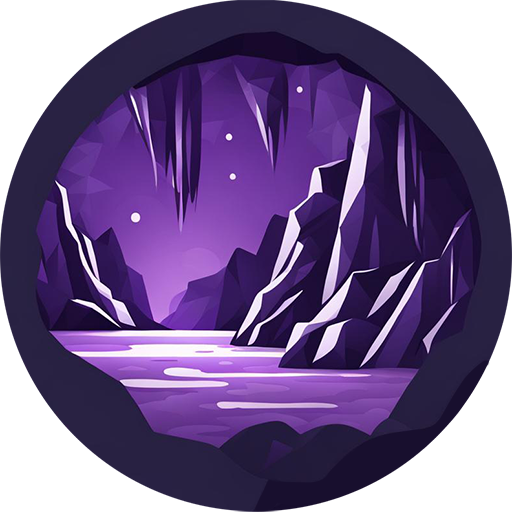
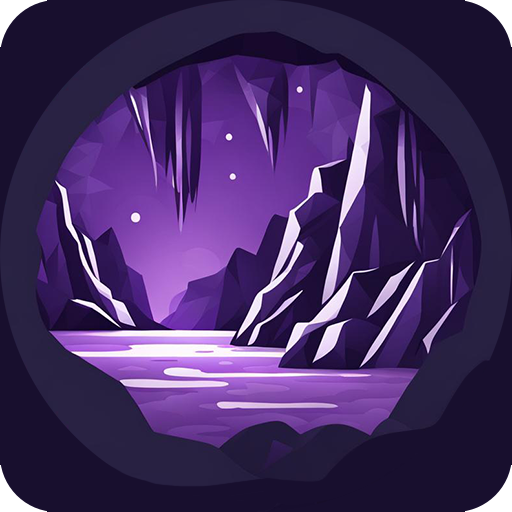
Fix prettier, add basic stepper component, improve sidebar animation.

diff --git a/src/app/feature/generator/component/generator-form/generator-form.component.html b/src/app/feature/generator/component/generator-form/generator-form.component.html
@@ -1,20 +1,10 @@
 <form [formGroup]="form">
   <cn-checkbox class="cn-cell-3" formControlName="crystalNestMod" label="Are you Crystal Nest's member?"></cn-checkbox>
-</form>
-<mat-stepper #stepper orientation="horizontal" [linear]="false">
-  <mat-step [stepControl]="form">
-    <ng-template matStepLabel>Choose Minecraft version</ng-template>
-    <form [formGroup]="form">
+  <cn-stepper [steps]="steps">
+    <ng-template step>
       <cn-input formControlName="minecraftVersion" label="Minecraft version" />
-      <button mat-button matStepperNext>
-        next
-        <mat-icon>keyboard_arrow_right</mat-icon>
-      </button>
-    </form>
-  </mat-step>
-  <mat-step [stepControl]="form">
-    <ng-template matStepLabel>Enter project name</ng-template>
-    <form [formGroup]="form">
+    </ng-template>
+    <ng-template step>
       <cn-input class="cn-cell-3" formControlName="modTitle" label="Mod title" />
       <cdk-accordion class="example-accordion">
         <cdk-accordion-item #accordionItem="cdkAccordionItem" role="button" tabindex="0">
@@ -29,45 +19,15 @@
           </div>
         </cdk-accordion-item>
       </cdk-accordion>
-      <button mat-button matStepperPrevious>
-        back
-        <mat-icon>keyboard_arrow_left</mat-icon>
-      </button>
-      <button mat-button matStepperNext>
-        next
-        <mat-icon>keyboard_arrow_right</mat-icon>
-      </button>
-    </form>
-  </mat-step>
-  <mat-step [stepControl]="form">
-    <ng-template matStepLabel>Enter project description</ng-template>
-    <form [formGroup]="form">
+    </ng-template>
+    <ng-template step>
       <textarea class="cn-cell-3" formControlName="description"></textarea>
-      <button mat-button matStepperPrevious>
-        back
-        <mat-icon>keyboard_arrow_left</mat-icon>
-      </button>
-      @if (!form.controls.crystalNestMod.value) {
-      <button mat-button matStepperNext>
-        next
-        <mat-icon>keyboard_arrow_right</mat-icon>
-      </button>
-      }
-    </form>
-  </mat-step>
-  @if (!form.controls.crystalNestMod.value) {
-  <mat-step [stepControl]="form">
-    <ng-template matStepLabel>Authors</ng-template>
-    <form [formGroup]="form">
+    </ng-template>
+    <ng-template step>
       <cn-input class="cn-cell-3" formControlName="group" label="Java group" />
       <cn-input class="cn-cell-3" formControlName="authors" label="Mod authors" />
       <cn-input class="cn-cell-3" formControlName="githubUser" label="GitHub owner" />
-      <button mat-button matStepperPrevious>
-        back
-        <mat-icon>keyboard_arrow_left</mat-icon>
-      </button>
-    </form>
-  </mat-step>
-  }
-</mat-stepper>
+    </ng-template>
+  </cn-stepper>
+</form>
 <button [disabled]="!validity" (click)="emitSubmit()">Download</button>

diff --git a/src/app/feature/generator/component/generator-form/generator-form.component.ts b/src/app/feature/generator/component/generator-form/generator-form.component.ts
@@ -11,15 +11,18 @@ import {TEMPLATE_AUTHORS, TEMPLATE_GITHUB_USER, TEMPLATE_GROUP} from '../../mode
 
 import {FormComponent} from '~cn/core/abstract/form-component';
 import {FormType} from '~cn/core/model/form-type.type';
-import {CnCheckboxComponent} from '~cn/shared/component/form/checkbox/checkbox.component';
-import {CnInputComponent} from '~cn/shared/component/form/input/input.component';
+import {CheckboxComponent} from '~cn/shared/component/form/checkbox/checkbox.component';
+import {InputComponent} from '~cn/shared/component/form/input/input.component';
+import {StepDirective} from '~cn/shared/component/form/stepper/directive/step.directive';
+import {Step} from '~cn/shared/component/form/stepper/model/step.interface';
+import {StepperComponent} from '~cn/shared/component/form/stepper/stepper.component';
 
 /**
  * Generator form.
  *
  * @export
  * @class CnGeneratorFormComponent
- * @typedef {CnGeneratorFormComponent}
+ * @typedef {GeneratorFormComponent}
  * @extends {FormComponent<SkeletonForm>}
  * @implements {OnInit}
  */
@@ -27,18 +30,37 @@ import {CnInputComponent} from '~cn/shared/component/form/input/input.component'
   selector: 'cn-generator-form',
   standalone: true,
   imports: [
-    CnCheckboxComponent,
+    StepDirective,
+    CheckboxComponent,
     MatIconModule,
     CdkAccordionModule,
     MatStepperModule,
     ReactiveFormsModule,
-    CnInputComponent,
-    CnCheckboxComponent
+    InputComponent,
+    CheckboxComponent,
+    StepperComponent
   ],
   templateUrl: './generator-form.component.html',
   styleUrl: './generator-form.component.scss'
 })
-export class CnGeneratorFormComponent extends FormComponent<SkeletonForm> implements OnInit {
+export class GeneratorFormComponent extends FormComponent<SkeletonForm> implements OnInit {
+  public steps: Step[] = [
+    {
+      label: 'Minecraft and loaders'
+    },
+    {
+      label: 'Project details'
+    },
+    {
+      label: 'Project description',
+      hasNext: () => !this.form.controls.crystalNestMod.value
+    },
+    {
+      label: 'Ownership',
+      isVisible: () => !this.form.controls.crystalNestMod.value
+    }
+  ];
+
   /**
    * @inheritdoc
    */

diff --git a/src/app/feature/frame/component/sidebar/sidebar.component.scss b/src/app/feature/frame/component/sidebar/sidebar.component.scss
@@ -16,6 +16,7 @@
       padding: calc($nav-icon-size / 2);
 
       > mat-icon {
+        min-width: $nav-icon-size;
         width: $nav-icon-size;
         height: $nav-icon-size;
         font-size: $nav-icon-size;
@@ -40,25 +41,35 @@
   .cn-container {
     height: 100%;
 
-    > mat-sidenav mat-list-item {
-      height: calc($nav-icon-size * 2);
+    > mat-sidenav {
+      width: calc($nav-icon-size * 2);
+      transition: width 0.2s;
 
-      .cn-nav-icon {
-        display: flex;
-        align-items: center;
-        justify-content: start;
-        padding: calc($nav-icon-size / 2);
-        gap: $nav-icon-size;
+      &.expanded {
+        // $nav-icon-size * 2 (icon space) + $nav-icon-size / 2 * 2 (writing padding) + 275px (writing size)
+        width: calc($nav-icon-size * 3 + 275px);
+      }
 
-        > mat-icon {
-          min-width: $nav-icon-size;
-          width: $nav-icon-size;
-          height: $nav-icon-size;
-          font-size: $nav-icon-size;
-        }
+      mat-list-item {
+        height: calc($nav-icon-size * 2);
 
-        > span {
-          font-size: calc($nav-icon-size / 2);
+        .cn-nav-icon {
+          display: flex;
+          align-items: center;
+          justify-content: start;
+          padding: calc($nav-icon-size / 2);
+          gap: $nav-icon-size;
+
+          > mat-icon {
+            min-width: $nav-icon-size;
+            width: $nav-icon-size;
+            height: $nav-icon-size;
+            font-size: $nav-icon-size;
+          }
+
+          > span {
+            font-size: calc($nav-icon-size / 2);
+          }
         }
       }
     }

diff --git a/src/app/feature/frame/component/sidebar/sidebar.component.ts b/src/app/feature/frame/component/sidebar/sidebar.component.ts
@@ -1,5 +1,5 @@
 // eslint-disable-next-line no-redeclare
-import {animate, state, style, transition, trigger, AnimationEvent} from '@angular/animations';
+import {AnimationEvent} from '@angular/animations';
 import {Component} from '@angular/core';
 import {MatIconModule} from '@angular/material/icon';
 import {MatListModule} from '@angular/material/list';
@@ -23,33 +23,16 @@ import {RouterModule} from '@angular/router';
     MatIconModule
   ],
   templateUrl: './sidebar.component.html',
-  styleUrl: './sidebar.component.scss',
-  animations: [
-    trigger('toggle', [
-      state('collapsed', style({width: '64px'})),
-      state('expanded', style({width: '371px'})),
-      transition('expanded => collapsed', animate('0.2s')),
-      transition('collapsed => expanded', animate('0.2s'))
-    ])
-  ]
+  styleUrl: './sidebar.component.scss'
 })
 export class SidebarComponent {
   public expanded = false;
 
-  public showWritings = false;
-
   public toggleSidebar() {
     this.expanded = !this.expanded;
-    if (this.expanded) {
-      this.showWritings = true;
-    }
   }
 
   public close() {
     this.expanded = false;
-  }
-
-  public onToggleDone(event: AnimationEvent) {
-    this.showWritings = event.toState !== 'collapsed';
   }
 }

diff --git a/src/app/feature/frame/component/sidebar/sidebar.component.html b/src/app/feature/frame/component/sidebar/sidebar.component.html
@@ -1,22 +1,18 @@
 <mat-sidenav-container autosize class="cn-container" [hasBackdrop]="expanded" (backdropClick)="close()">
-  <mat-sidenav disableClose role="navigation" [@toggle]="expanded ? 'expanded' : 'collapsed'" [opened]="true" (@toggle.done)="onToggleDone($event)" (keydown.escape)="close()">
+  <mat-sidenav disableClose role="navigation" [class.expanded]="expanded" [opened]="true" (keydown.escape)="close()">
     <div class="sidebar-toggle">
       <div class="sidebar-toggle-button">
         <mat-icon (click)="toggleSidebar()">menu</mat-icon>
       </div>
-      @if (showWritings) {
-      <div class="sidebar-toggle-title" [routerLink]="['']">
+      <div class="sidebar-toggle-title" [routerLink]="['']" [tabIndex]="-1">
         <span>Crystal Nest</span>
       </div>
-      }
     </div>
     <mat-nav-list>
       <mat-list-item [routerLink]="['/generator']">
         <div class="cn-nav-icon">
           <mat-icon mat-list-icon>snippet_folder</mat-icon>
-          @if (showWritings) {
           <span mat-line>Skeleton Generator</span>
-          }
         </div>
       </mat-list-item>
     </mat-nav-list>

diff --git a/src/app/feature/generator/generator.component.ts b/src/app/feature/generator/generator.component.ts
@@ -3,7 +3,7 @@ import {Component} from '@angular/core';
 import {RouterModule} from '@angular/router';
 import JSZip from '@progress/jszip-esm';
 
-import {CnGeneratorFormComponent} from './component/generator-form/generator-form.component';
+import {GeneratorFormComponent} from './component/generator-form/generator-form.component';
 import {SkeletonForm} from './model/skeleton-form.interface';
 import {TEMPLATE_AUTHORS, TEMPLATE_BANNER_LINK, TEMPLATE_GITHUB_USER, TEMPLATE_GROUP, TEMPLATE_MOD_ID, TEMPLATE_MOD_ID_KEBAB, TEMPLATE_MOD_TITLE, TEMPLATE_SUPPORT_SECTION} from './model/template.constants';
 import {TemplateService} from './service/template.service';
@@ -22,7 +22,7 @@ import {TemplateService} from './service/template.service';
     RouterModule,
     HttpClientModule,
     HttpClientJsonpModule,
-    CnGeneratorFormComponent
+    GeneratorFormComponent
   ],
   providers: [TemplateService],
   templateUrl: './generator.component.html',

diff --git a/src/app/shared/component/form/stepper/stepper.component.html b/src/app/shared/component/form/stepper/stepper.component.html
@@ -1,0 +1,22 @@
+<mat-stepper #stepper orientation="horizontal" [linear]="true">
+  @for (step of steps; track $index) {
+    @if (!step.isVisible || step.isVisible()) {
+      <mat-step>
+        <ng-template matStepLabel>{{ step.label }}</ng-template>
+        <ng-container [ngTemplateOutlet]="contents.get($index)!"></ng-container>
+        @if ((!step.hasBack || step.hasBack()) && $index > 0) {
+          <button mat-button matStepperPrevious type="button">
+            back
+            <mat-icon>keyboard_arrow_left</mat-icon>
+          </button>
+        }
+        @if ((!step.hasNext || step.hasNext()) && $index < steps.length - 1) {
+          <button mat-button matStepperNext type="button">
+            next
+            <mat-icon>keyboard_arrow_right</mat-icon>
+          </button>
+        }
+      </mat-step>
+    }
+  }
+</mat-stepper>

diff --git a/src/app/shared/component/form/stepper/stepper.component.ts b/src/app/shared/component/form/stepper/stepper.component.ts
@@ -1,0 +1,23 @@
+import {CommonModule} from '@angular/common';
+import {Component, ContentChildren, Input, QueryList, TemplateRef} from '@angular/core';
+import {MatIconModule} from '@angular/material/icon';
+import {MatStepperModule} from '@angular/material/stepper';
+
+import {Step} from './model/step.interface';
+
+import {StepDirective} from '~cn/shared/component/form/stepper/directive/step.directive';
+
+@Component({
+  selector: 'cn-stepper',
+  standalone: true,
+  imports: [CommonModule, MatStepperModule, MatIconModule],
+  templateUrl: './stepper.component.html',
+  styleUrl: './stepper.component.scss'
+})
+export class StepperComponent {
+  @Input({required: true})
+  public steps: Step[] = [];
+
+  @ContentChildren(StepDirective, {read: TemplateRef})
+  public contents!: QueryList<TemplateRef<unknown>>;
+}

diff --git a/src/app/shared/component/form/input/input.component.ts b/src/app/shared/component/form/input/input.component.ts
@@ -12,7 +12,7 @@ import {CnControlValueAccessor} from '../cva/control-value-accessor';
  *
  * @export
  * @class CnInputComponent
- * @typedef {CnInputComponent}
+ * @typedef {InputComponent}
  * @extends {CnControlValueAccessor<string>}
  */
 @Component({
@@ -28,7 +28,7 @@ import {CnControlValueAccessor} from '../cva/control-value-accessor';
   templateUrl: 'input.component.html',
   styleUrl: 'input.component.scss'
 })
-export class CnInputComponent extends CnControlValueAccessor<string> implements AfterViewInit {
+export class InputComponent extends CnControlValueAccessor<string> implements AfterViewInit {
   /**
    * Regex to filter the user input.
    *

diff --git a/src/app/shared/component/form/checkbox/checkbox.component.ts b/src/app/shared/component/form/checkbox/checkbox.component.ts
@@ -10,7 +10,7 @@ import {CnControlValueAccessor} from '../cva/control-value-accessor';
  *
  * @export
  * @class CnCheckboxComponent
- * @typedef {CnCheckboxComponent}
+ * @typedef {CheckboxComponent}
  * @extends {CnControlValueAccessor<boolean>}
  */
 @Component({
@@ -20,7 +20,7 @@ import {CnControlValueAccessor} from '../cva/control-value-accessor';
   templateUrl: 'checkbox.component.html',
   styleUrl: 'checkbox.component.scss'
 })
-export class CnCheckboxComponent extends CnControlValueAccessor<boolean> {
+export class CheckboxComponent extends CnControlValueAccessor<boolean> {
   /**
    * Whether the checkbox is in the indeterminate state.
    *

diff --git a/src/app/feature/frame/component/footer/footer.component.html b/src/app/feature/frame/component/footer/footer.component.html
@@ -1,6 +1,6 @@
 <div class="description">
   <div class="description-title">
-    <img src="/assets/images/home.png" />
+    <img src="/assets/images/home-round.png" />
     <span>Crystal Nest</span>
   </div>
   <span class="description-body">

diff --git a/src/app/shared/component/form/stepper/directive/step.directive.ts b/src/app/shared/component/form/stepper/directive/step.directive.ts
@@ -1,0 +1,7 @@
+import {Directive} from '@angular/core';
+
+@Directive({
+  selector: '[step]',
+  standalone: true
+})
+export class StepDirective {}
